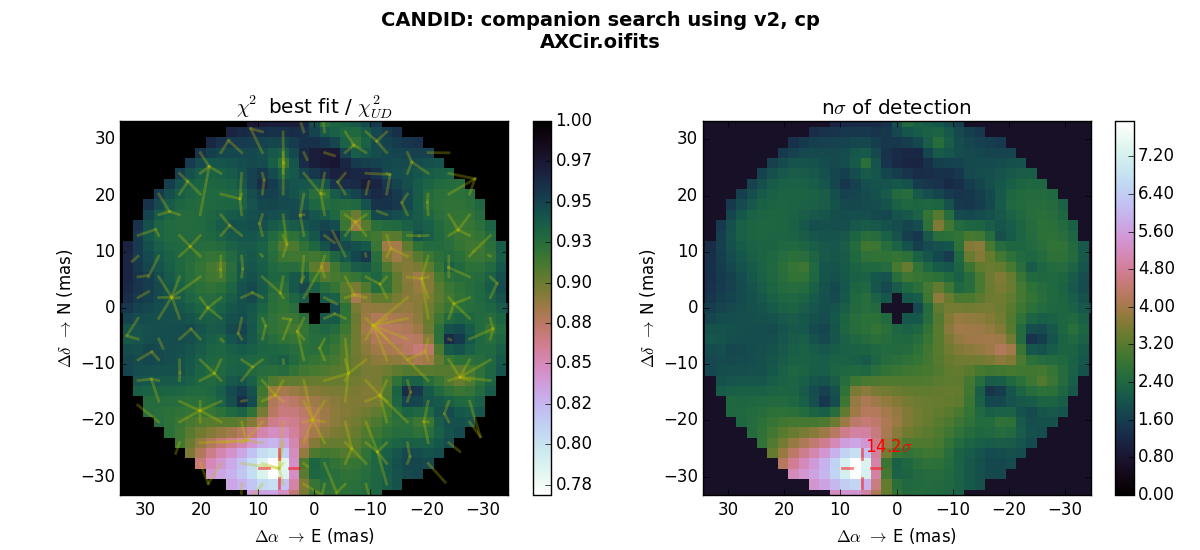
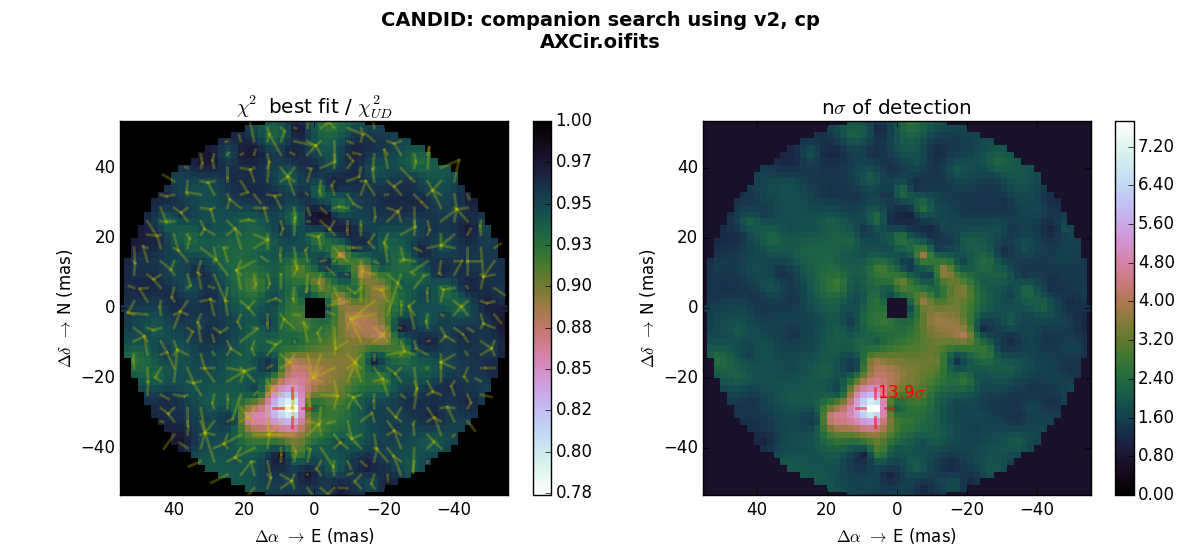
V0.5

diff --git a/README.md b/README.md
@@ -32,134 +32,126 @@ The code has *not* been deeply error proofed. If you encounter problems or bugs,
 see "candidTest.py", function "AXCir". on a Core i7 2.2GHz, It runs in about 50 seconds with the 'fast' option (fast indeed, but not accurate!), and almost 6 minutes in normal mode.
 * **chi2 Maps**. These are useful because fast, but dangerous because it is easy to miss a companion just using those. On FIG1 and FIG2, we show to runs for different diamaters and flux ratio: either the diameter is fitted to the V2 data ([FIG1](https://github.com/amerand/CANDID/blob/master/doc/figure_1.png)). The chi2 map shows a minimum only if the grid if fine enough (the structure in the map should be clear, not pixelated) but also if the parameters (inc. the flux ratio) are very close to the actual ones.
 * **fit Maps**. These are better, but much slower than chi2 maps. If V2 are present, the diameter will be fitted ([FIG2](https://github.com/amerand/CANDID/blob/master/doc/figure_2.png)). Note that once a companion is found, it can be removed analytically from the data and the fit map ran again ([FIG3](https://github.com/amerand/CANDID/blob/master/doc/figure_3.png)): this demontrates that, in the case of our example, the secondary "detections" are only artefact from the main companion.
-* **detection limits**. We imlemented 2 methods; Absil's and our companion injection ([FIG4](https://github.com/amerand/CANDID/blob/master/doc/figure_4.png)). Note that they give different results. We argue that our method is more robust to correlated noise. As an example, one can see the effects of running thge detection limits algorithms to the raw data set ([FIG4](https://github.com/amerand/CANDID/blob/master/doc/figure_4.png)) and after the companion is removed ([FIG5](https://github.com/amerand/CANDID/blob/master/doc/figure_5.png)): Absil's method gives different results, while ours remain barely changed.
-
+* **detection limits**. We imlemented 2 methods; Absil's and our companion injection. Note that they give slightly different results: we argue that our method is more robust to correlated noise (read our paper!). When you have detected a companion and wish to estimate the detection limit, it is important to first remove analyticaly the companion ([FIG5](https://github.com/amerand/CANDID/blob/master/doc/figure_5.png)).
 
 Open OIFITS file with CANDID, and restrict search from 2 to 35 mas. Also, only consider 'v2' and 'cp' observables:
+
 ```python
-import candid
-from matplotlib import pyplot as plt
-axcir = candid.Open('AXCir.oifits', rmin=2, rmax=35)
-axcir.observables=['v2','cp']
+>>> import candid
+>>> from matplotlib import pyplot as plt
+>>> axcir = candid.Open('AXCir.oifits', rmin=2, rmax=35)
+>>> axcir.observables=['v2','cp']
 ```
 
-### FIG1 - CHI2MAP with 0.5 mas step, fitted diameter and fratio=1%:
+### FIG1 - CHI2MAP: fitted diameter and fixed flux ratio=1%:
+The easiest thing to try is a chi2 map, assuming a certain flux ratio for the companion. This is quite inefficient but CANDID allows to do it. If no parametrization is given (step size 'step=', maximum radius for search 'rmax'), CANDID will guess some values based on the angular resolution and the wavelength smearing field of view. The flux ratio is given in percent.
+
 ```python
-axcir.chi2Map(0.5, fig=1, fratio=0.01)
+>>> axcir.chi2Map(fig=1, fratio=1.0)
 ```
 ```
+ > step= not given, using 1/6 X smallest spatial scale = 0.45 mas
  > observables: ['v2', 'cp']
  > UD Fit
  | best fit diameter: 0.932 +- 0.006 mas
  | chi2 UD = 0.975
- | Computing Map 140x140 ... it should take about 23 seconds
- |================================================== | 99%   0 s remainingg
- | chi2 Min:  0.90
- | at X,Y  :   6.29, -28.45 mas
- | Nsigma  :  2.64
+ | Computing Map 248x248 ... it should take about 70 seconds
+ |================================================== | 99%   0 s remainingng
+ | chi2 Min:  0.97
+ | at X,Y  : -12.30,   3.35 mas
+ | Nsigma  :  0.83
 ```
 ![Figure 1](https://github.com/amerand/CANDID/blob/master/doc/figure_1.png)
 
 
-### FIG2 - FITMAP with 3.5 mas step:
-Doing a grid of fit is much more efficient than doing a simple Chi2 Map (like for ([FIG1](https://github.com/amerand/CANDID/blob/master/doc/figure_1.png))). In a FITMAP, a set of binary fits are performed starting from a 2D grid of companion position. The plot displays the interpolated map of the chi2 minima (left), with the path of the fit, from start to finish (yellow lines). FITMAP will compute, a posteriori, what was the correct step size. In our example below, 3.5 mas is a little sub-optimum. The companion is detected at the same position as for the previous example, with a much better dynamic range.
+### FIG2 - FITMAP:
+Doing a grid of fit is much more efficient than doing a simple Chi2 Map (like for ([FIG1](https://github.com/amerand/CANDID/blob/master/doc/figure_1.png))). In a FITMAP, a set of binary fits are performed starting from a 2D grid of companion position. The plot displays the interpolated map of the chi2 minima (left), with the path of the fit, from start to finish (yellow lines). FITMAP will compute, a posteriori, what was the correct step size 'step='. In our example below, we let CANDID chose the step size, based on the angular resoultion of the data (1.2 wavelength/baseline). The companion is detected at the same position as for the previous example, with a much better dynamic range.
 ```python
-axcir.fitMap(3.5, fig=2)
+axcir.fitMap(fig=2)
 ```
 ```
+>>> axcir.fitMap(fig=2)
+ > step= not given, using sqrt(2) x smallest spatial scale = 3.78 mas
  > observables: ['v2', 'cp']
  > Preliminary analysis
  > UD Fit
  | best fit diameter: 0.932 +- 0.006 mas
  | chi2 UD = 0.975
- > Grid Fitting 20x20:
- ... it should take about 35 seconds
- |================================================== | 99%   0 s remaining
+ > Grid Fitting 30x30: ... it should take about 79 seconds
+ |================================================== |  99%   0 s remainingg
  | Computing map of interpolated Chi2 minima
- | 115 individual minima for 275 fits
- | 10, 50, 90 percentiles for fit displacement: 1.4, 2.6, 5.1 mas
- | Grid has the correct steps of 3.50mas, optimimum step size found to be 3.50mas
- > BEST FIT 0: chi2= 0.73
- |     x=  6.24e+00 +- 5.76e-02
- |     y= -2.85e+01 +- 8.36e-02
- |     f=  9.38e-03 +- 4.26e-04
- | diam*=  8.34e-01 +- 7.46e-03
- | chi2r_UD=0.98, chi2r_BIN=0.73, NDOF=1499 -> n sigma: 14.17
- > fixed bandwidth parameters for the map (in um):
- | dwavel;PIONIER_Pnat(1.6135391/1.7698610) =  0.156322
+ | 286 individual minima for 643 fits
+ | 10, 50, 90 percentiles for fit displacement: 1.1, 2.6, 5.1 mas
+ | Grid has the correct steps of 3.78mas, optimimum step size found to be 3.56mas
+ > BEST FIT 0: chi2= 0.74
+ |     x=  6.22e+00 +- 5.96e-02
+ |     y= -2.85e+01 +- 7.74e-02
+ |     f=  8.33e-01 +- 3.83e-02
+ | diam*=  8.30e-01 +- 7.68e-03
+ | chi2r_UD=0.98, chi2r_BIN=0.74, NDOF=1499 -> n sigma: 13.89
 ```
 ![Figure 2](https://github.com/amerand/CANDID/blob/master/doc/figure_2.png)
 
-### FIG3 - FITMAP with 3.5 mas step, after removing companion
-CANDID offers the possibility, once a companion has been detected, to remove it analytically from the data and rerun a FITMAP. This allows to estimate the dynamic range of the data set, but also to detect fainter tertiary compents.
+### FIG3 - FITMAP, after removing companion
+CANDID offers the possibility, once a companion has been detected, to remove it analytically from the data and rerun a FITMAP. This allows to estimate the dynamic range of the data set, but also to detect fainter tertiary compents. fitMap stores the best fit in the dictionnary "bestFit", which key "best" contains the dictionnary containing the parameters. Note that axcir.bestFit['uncer'] contains the corresponding error bars.
 
 ```python
-p = {'x':6.24, 'y':-28.5, 'f':0.0094}
-axcir.fitMap(3.5, fig=3, removeCompanion=p)
-```
-```
-> observables: ['v2', 'cp']
+>>> p = axcir.bestFit['best']
+>>> axcir.fitMap(fig=3, removeCompanion=p)
+ > step= not given, using sqrt(2) x smallest spatial scale = 3.78 mas
+ > observables: ['v2', 'cp']
  > Preliminary analysis
  > UD Fit
- | best fit diameter: 0.815 +- 0.006 mas
- | chi2 UD = 0.753
- > Grid Fitting 20x20: ... it should take about 24 seconds
- |================================================== | 99%   0 s remaining
+ | best fit diameter: 0.829 +- 0.006 mas
+ | chi2 UD = 0.747
+ > Grid Fitting 30x30: ... it should take about 28 seconds
+ |================================================== |  99%   0 s remaining
  | Computing map of interpolated Chi2 minima
- | 133 individual minima for 275 fits
- | 10, 50, 90 percentiles for fit displacement: 1.2, 2.9, 5.9 mas
- | Grid has the correct steps of 3.50mas, optimimum step size found to be 3.89mas
- > BEST FIT 0: chi2= 0.71
- |     x=  6.60e+00 +- 1.32e-01
- |     y=  2.27e+00 +- 1.80e-01
- |     f=  3.55e-03 +- 3.70e-04
- | diam*=  7.52e-01 +- 9.42e-03
- | chi2r_UD=0.75, chi2r_BIN=0.71, NDOF=1499 -> n sigma:  2.05
- > fixed bandwidth parameters for the map (in um):
- | dwavel;PIONIER_Pnat(1.6135391/1.7698610) =  0.156322
+ | 362 individual minima for 643 fits
+ | 10, 50, 90 percentiles for fit displacement: 1.0, 2.6, 5.1 mas
+ | Grid has the correct steps of 3.78mas, optimimum step size found to be 3.68mas
+ > BEST FIT 0: chi2= 0.70
+ |     x=  6.53e+00 +- 1.26e-01
+ |     y=  2.31e+00 +- 1.75e-01
+ |     f=  3.64e-01 +- 3.66e-02
+ | diam*=  7.66e-01 +- 9.17e-03
+ | chi2r_UD=0.75, chi2r_BIN=0.70, NDOF=1499 -> n sigma:  2.17
 ```
 
 ![Figure 3](https://github.com/amerand/CANDID/blob/master/doc/figure_3.png)
 
-### FIG4 - DETECTION LIMIT, 1mas step
-This leads to a result which is not relevant: we already know there is a companion in the data, which means the assumptions of the statistical tests are not met. Interestingly, the 2 methods diverege, which means there are not sensitive in the same way to the correlated "noise" introduced by the companion.
+### FIG4 - ERROR BARS:
+In order to better estimate the uncertainties on the companion we found, we can use bootstraping to estimate the incertainties around the best fit parameters. The default starting is the best bitted position
 
 ```python
-axcir.detectionLimit(1.0, fig=4); plt.subplot(212);  plt.ylim(0.2, 1.0)
-```
-```
- > observables: ['v2', 'cp']
- > UD Fit
- | best fit diameter: 0.932 +- 0.006 mas
- | chi2 UD = 0.975
- > Detection Limit Map 70x70 ... it should take about 109 seconds
- > Method: Absil
- |================================================== | 99%   0 s remaining
- > Method: injection
- |================================================== | 99%   0 s remaining
+>>> axcir.fitBoot(param=p)
+ > 'N=' not given, setting it to Ndata / 3
+ > running 'N='500 fit ... it should take about 3 seconds
+ |================================================== |  99%   0 s remaining
 ```
 
 ![Figure 4](https://github.com/amerand/CANDID/blob/master/doc/figure_4.png)
 
-### FIG5 - DETECTION LIMIT, 1mas step, after removing companion
-We here remove the companion analyticaly (using a high contrast hypothesis) from the V2 and CP data. In that case, the two methods (Absil and companion injection) should give more similar results, assuming the remaining noise is uncorrelated (which we know is probably not true). Comparing this to the previous result, we can see that the injection method is more robust (less change compared to data with companion). The two methods still diverge, but less.
+
+### FIG5 - DETECTION LIMIT, after analyticaly removing companion:
+We here remove the companion analyticaly (using a high contrast hypothesis) from the V2 and CP data. This is mandatory in order to estimate the detection limit: the statistical hypothesis of the test is that the data are best described by a uniform disk.
+
 ```python
-p = {'x':6.24, 'y':-28.5, 'f':0.0094}
-axcir.detectionLimit(1.0, fig=5, removeCompanion=p); plt.subplot(212); plt.ylim(0.2, 1.0)
-```
-```
+>>> axcir.detectionLimit(fig=5, removeCompanion=p)
+ > step= not given, using 1/2 X smallest spatial scale = 0.89 mas
  > observables: ['v2', 'cp']
  > UD Fit
- | best fit diameter: 0.815 +- 0.006 mas
- | chi2 UD = 0.753
- > Detection Limit Map 70x70 ... it should take about 114 seconds
+ | best fit diameter: 0.829 +- 0.006 mas
+ | chi2 UD = 0.747
+ > Detection Limit Map 124x124 ... it should take about 171 seconds
  > Method: Absil
  |================================================== | 99%   0 s remaining
  > Method: injection
- |================================================== | 99%   0 s remaining
+ |================================================== | 99%   0 s remainingg
 ```
 ![Figure 5](https://github.com/amerand/CANDID/blob/master/doc/figure_5.png)
 
+### FIG6 - ERROR BARS, using bootstrapping
 
 ### CONFIG parameters
 
